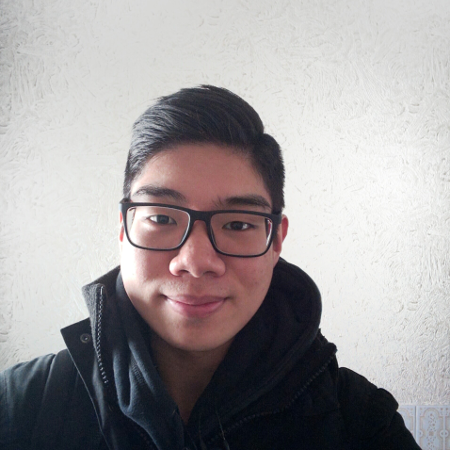
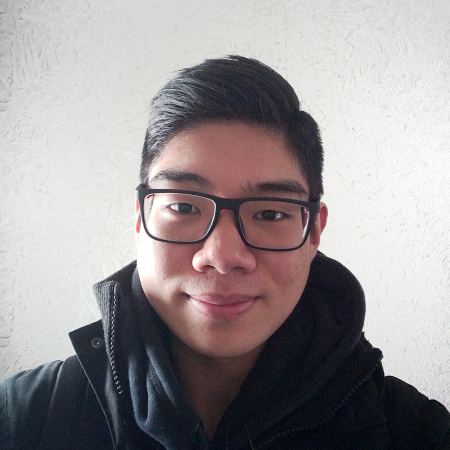
Minor changes
Arranged picture
Changed header and ribbon color
Changed content width

diff --git a/index.html b/index.html
@@ -25,16 +25,13 @@
       <div class="ribbon"></div>
       <main class="main mdl-layout__content">
         <div class="container mdl-grid">
-          <div class="mdl-cell mdl-cell--2-col mdl-cell--hide-tablet mdl-cell--hide-phone"></div>
+          <div class="space mdl-cell mdl-cell--2-col mdl-cell--hide-tablet mdl-cell--hide-phone"></div>
           <div class="content mdl-color--white mdl-shadow--4dp content mdl-color-text--grey-800 mdl-cell mdl-cell--8-col">
             <div id="inside">
               <img id="pouchonLOL" src="images/tronche.png"/>
-              <h2 id="title">Nathan Chao</h2>
+              <h3 id="title">Hi, I'm Nathan</h2>
                 <p>
                   Cillum dolor esse sit incididunt velit eiusmod magna ad nostrud officia aute dolor dolor. Magna esse ullamco pariatur adipisicing consectetur eu commodo officia. Ex cillum consequat mollit minim elit est deserunt occaecat nisi amet. Quis aliqua nostrud Lorem occaecat sunt. Eiusmod quis amet ullamco aliquip dolore ut incididunt duis adipisicing. Elit consequat nisi eiusmod aute ipsum sunt veniam do est. Occaecat mollit aliquip ut proident consectetur amet ex dolore consectetur aliqua elit.
-                </p>
-                <p>
-                  Commodo nisi non consectetur voluptate incididunt mollit duis dolore amet amet tempor exercitation. Qui amet aute ea aute id ad aliquip proident. Irure duis qui labore deserunt enim in quis nisi sint consequat aliqua. Ex proident labore et laborum tempor fugiat sint magna veniam minim. Nulla dolor labore adipisicing in enim mollit laboris fugiat eu. Aliquip minim cillum ullamco voluptate non dolore non ex duis fugiat duis ad. Deserunt cillum ad et nisi amet non voluptate culpa qui do. Labore ullamco et minim proident est laborum mollit ad labore deserunt ut irure dolore. Reprehenderit ad ad irure ut irure qui est eu velit eu excepteur adipisicing culpa. Laborum cupidatat ullamco eu duis anim reprehenderit proident aute ad consectetur eiusmod.
                 </p>
                 <div id="links">
                   <a class="links" id="github_link" href="https://github.com/n2chao" target="_blank"><img class="icons" src="icons/github_round.png" alt="GitHub icon"/></a>
@@ -43,16 +40,14 @@
                   <a class="links" id="mail_link" href="mailto:n2chao@gmail.com?Subject=Hi%20Nathan!" target="_blank"><img class="icons" src="icons/mail_round.png" alt="Mail icon"/></a>
                 </div>
                 <div class="mdl-tooltip mdl-tooltip--large mdl-tooltip--left" for="github_link">The next big thing, maybe</div>
-                <div class="mdl-tooltip mdl-tooltip--large mdl-tooltip--left" for="linkedin_link">Hire me</div>
-                <div class="mdl-tooltip mdl-tooltip--large mdl-tooltip--right" for="facebook_link">Let's be friends</div>
+                <div class="mdl-tooltip mdl-tooltip--large mdl-tooltip--bottom" for="linkedin_link">Hire me</div>
+                <div class="mdl-tooltip mdl-tooltip--large mdl-tooltip--bottom" for="facebook_link">Let's be friends</div>
                 <div class="mdl-tooltip mdl-tooltip--large mdl-tooltip--right" for="mail_link">n2chao@gmail.com</div>
             </div>
           </div>
         </div>
         <footer class="footer">
             <a id="footer_link" href="#">© 2016 Nathan Chao</a>
-            |
-            <a id="footer_link" href="#">Français</a>
         </footer>
       </main>
     </div>

diff --git a/style.css b/style.css
@@ -5,7 +5,7 @@ body{
 .ribbon {
   width: 100%;
   height: 40vh;
-  background-color: #607D8B;
+  background-color: #4CAF50;
   flex-shrink: 0;
 }
 
@@ -17,7 +17,7 @@ body{
 .header .mdl-layout__header-row {
   padding-left: 40px;
   color: #FFFFFF;
-  background-color: #546E7A;
+  background-color: #43A047;
 }
 
 #title_url{
@@ -36,6 +36,10 @@ body{
   text-align: center;
 }
 
+.space{
+  width: calc(30% - 16px);
+}
+
 .content {
   border-radius: 2px;
   padding-left: 56px;
@@ -44,7 +48,8 @@ body{
   margin-top: 150px;
   margin-bottom: 40px;
   text-align: justify;
-  width: calc(66.6666666667% - 16px);
+  width: calc(40% - 16px);
+  min-width: 200px;
   position: relative;
 }
 
@@ -103,5 +108,5 @@ body{
 }
 
 .mdl-tooltip{
-  
+
 }
